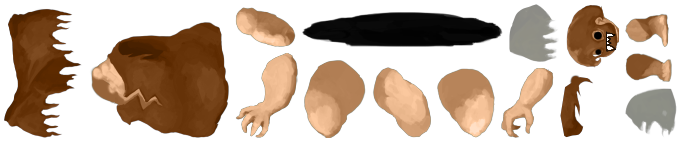
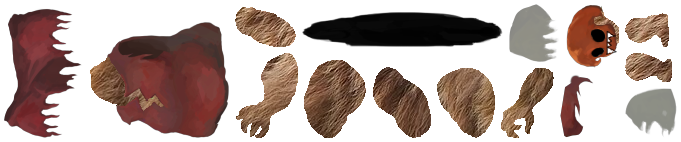
More skins and some skin reworks now that I am slightly more familiar with Photopea

diff --git a/src/main/java/spirepass/screens/SpirepassScreenRenderer.java b/src/main/java/spirepass/screens/SpirepassScreenRenderer.java
@@ -341,6 +341,69 @@ public class SpirepassScreenRenderer {
                 "SNECKO_COLGATE"
         ));
 
+        rewardData.put(24, new SpirepassRewardData(
+                24,
+                "Donut",
+                "If Grand Constructs weren't meant to be eaten, then why do they look so delicious???",
+                SpirepassRewardData.RewardRarity.RARE,
+                SpirepassRewardData.RewardType.CHARACTER_MODEL,
+                SkinManager.ENTITY_DONU,
+                "DONU_DONUT"
+        ));
+
+        rewardData.put(25, new SpirepassRewardData(
+                25,
+                "Chalkboard",
+                "\"Uhh, our chalkboard just sprouted legs and walked away. Class is cancelled!\"",
+                SpirepassRewardData.RewardRarity.UNCOMMON,
+                SpirepassRewardData.RewardType.CHARACTER_MODEL,
+                SkinManager.ENTITY_DECA,
+                "DECA_CHALKBOARD"
+        ));
+
+        rewardData.put(26, new SpirepassRewardData(
+                26,
+                "Purple Guy",
+                "The bandit behind the slaughter",
+                SpirepassRewardData.RewardRarity.UNCOMMON,
+                SpirepassRewardData.RewardType.CHARACTER_MODEL,
+                SkinManager.ENTITY_ROMEO,
+                "ROMEO_PURPLEGUY"
+        ));
+
+        rewardData.put(27, new SpirepassRewardData(
+                27,
+                "Blissful",
+                "Though this cardback represents XP, it does not affect your XP. xP",
+                SpirepassRewardData.RewardRarity.COMMON,
+                SpirepassRewardData.RewardType.CARDBACK,
+                SkinManager.CARDBACK_COLORLESS,
+                "COLORLESS_BLISSFUL",
+                "spirepass/images/rewards/cardbacks/colorless/blissful/BlissSkillLarge.png"
+        ));
+
+        rewardData.put(28, new SpirepassRewardData(
+                28,
+                "Downtrend",
+                "not stonks",
+                SpirepassRewardData.RewardRarity.UNCOMMON,
+                SpirepassRewardData.RewardType.CARDBACK,
+                SkinManager.CARDBACK_CURSE,
+                "CURSE_NOTSTONKS",
+                "spirepass/images/rewards/cardbacks/curse/NotStonksLarge.png"
+        ));
+
+        rewardData.put(29, new SpirepassRewardData(
+                29,
+                "Jimbo Joker",
+                "\"Maybe Go Fish is more our speed...\"",
+                SpirepassRewardData.RewardRarity.UNCOMMON,
+                SpirepassRewardData.RewardType.CARDBACK,
+                SkinManager.CARDBACK_COLORLESS,
+                "COLORLESS_JIMBO",
+                "spirepass/images/rewards/cardbacks/colorless/jimbo/JimboSkillLarge.png"
+        ));
+
         // Default reward for all other levels (badge image)
         Texture badgeTexture = ImageMaster.loadImage("spirepass/images/badge.png");
 
@@ -377,11 +440,14 @@ public class SpirepassScreenRenderer {
         previewAnimations.put(SkinManager.ENTITY_RED_SLAVER, new HashMap<>());
         previewAnimations.put(SkinManager.ENTITY_SENTRY, new HashMap<>());
         previewAnimations.put(SkinManager.ENTITY_GREMLIN_NOB, new HashMap<>());
+        previewAnimations.put(SkinManager.ENTITY_ROMEO, new HashMap<>());
         previewAnimations.put(SkinManager.ENTITY_BEAR, new HashMap<>());
         previewAnimations.put(SkinManager.ENTITY_CENTURION, new HashMap<>());
         previewAnimations.put(SkinManager.ENTITY_SNECKO, new HashMap<>());
         previewAnimations.put(SkinManager.ENTITY_WRITHING_MASS, new HashMap<>());
         previewAnimations.put(SkinManager.ENTITY_GIANT_HEAD, new HashMap<>());
+        previewAnimations.put(SkinManager.ENTITY_DONU, new HashMap<>());
+        previewAnimations.put(SkinManager.ENTITY_DECA, new HashMap<>());
         previewAnimations.put(SkinManager.ENTITY_AWAKENED_ONE, new HashMap<>());
 
         previewSkeletons.put(SkinManager.ENTITY_IRONCLAD, new HashMap<>());
@@ -394,11 +460,14 @@ public class SpirepassScreenRenderer {
         previewSkeletons.put(SkinManager.ENTITY_RED_SLAVER, new HashMap<>());
         previewSkeletons.put(SkinManager.ENTITY_SENTRY, new HashMap<>());
         previewSkeletons.put(SkinManager.ENTITY_GREMLIN_NOB, new HashMap<>());
+        previewSkeletons.put(SkinManager.ENTITY_ROMEO, new HashMap<>());
         previewSkeletons.put(SkinManager.ENTITY_BEAR, new HashMap<>());
         previewSkeletons.put(SkinManager.ENTITY_CENTURION, new HashMap<>());
         previewSkeletons.put(SkinManager.ENTITY_SNECKO, new HashMap<>());
         previewSkeletons.put(SkinManager.ENTITY_WRITHING_MASS, new HashMap<>());
         previewSkeletons.put(SkinManager.ENTITY_GIANT_HEAD, new HashMap<>());
+        previewSkeletons.put(SkinManager.ENTITY_DONU, new HashMap<>());
+        previewSkeletons.put(SkinManager.ENTITY_DECA, new HashMap<>());
         previewSkeletons.put(SkinManager.ENTITY_AWAKENED_ONE, new HashMap<>());
 
         animationInitialized.put(SkinManager.ENTITY_IRONCLAD, new HashMap<>());
@@ -411,11 +480,14 @@ public class SpirepassScreenRenderer {
         animationInitialized.put(SkinManager.ENTITY_RED_SLAVER, new HashMap<>());
         animationInitialized.put(SkinManager.ENTITY_SENTRY, new HashMap<>());
         animationInitialized.put(SkinManager.ENTITY_GREMLIN_NOB, new HashMap<>());
+        animationInitialized.put(SkinManager.ENTITY_ROMEO, new HashMap<>());
         animationInitialized.put(SkinManager.ENTITY_BEAR, new HashMap<>());
         animationInitialized.put(SkinManager.ENTITY_CENTURION, new HashMap<>());
         animationInitialized.put(SkinManager.ENTITY_SNECKO, new HashMap<>());
         animationInitialized.put(SkinManager.ENTITY_WRITHING_MASS, new HashMap<>());
         animationInitialized.put(SkinManager.ENTITY_GIANT_HEAD, new HashMap<>());
+        animationInitialized.put(SkinManager.ENTITY_DONU, new HashMap<>());
+        animationInitialized.put(SkinManager.ENTITY_DECA, new HashMap<>());
         animationInitialized.put(SkinManager.ENTITY_AWAKENED_ONE, new HashMap<>());
     }
 
@@ -447,6 +519,8 @@ public class SpirepassScreenRenderer {
                 basePath = "spirepass/images/skins/sentry/" + variant + "/";
             } else if (entityId.equals(SkinManager.ENTITY_GREMLIN_NOB)) {
                 basePath = "spirepass/images/skins/gremlin_nob/" + variant + "/";
+            } else if (entityId.equals(SkinManager.ENTITY_ROMEO)) {
+                basePath = "spirepass/images/skins/romeo/" + variant + "/";
             } else if (entityId.equals(SkinManager.ENTITY_BEAR)) {
                 basePath = "spirepass/images/skins/bear/" + variant + "/";
             } else if (entityId.equals(SkinManager.ENTITY_CENTURION)) {
@@ -457,6 +531,10 @@ public class SpirepassScreenRenderer {
                 basePath = "spirepass/images/skins/writhing_mass/" + variant + "/";
             } else if (entityId.equals(SkinManager.ENTITY_GIANT_HEAD)) {
                 basePath = "spirepass/images/skins/giant_head/" + variant + "/";
+            } else if (entityId.equals(SkinManager.ENTITY_DONU)) {
+                basePath = "spirepass/images/skins/donu/" + variant + "/";
+            } else if (entityId.equals(SkinManager.ENTITY_DECA)) {
+                basePath = "spirepass/images/skins/deca/" + variant + "/";
             } else if (entityId.equals(SkinManager.ENTITY_AWAKENED_ONE)) {
                 basePath = "spirepass/images/skins/awakened_one/" + variant + "/";
             } else if (entityId.equals(SkinManager.ENTITY_BLUE_SLAVER)) {
@@ -609,10 +687,13 @@ public class SpirepassScreenRenderer {
                 entityId.equals(SkinManager.ENTITY_SENTRY) ||
                 entityId.equals(SkinManager.ENTITY_GREMLIN_NOB) ||
                 entityId.equals(SkinManager.ENTITY_BEAR) ||
+                entityId.equals(SkinManager.ENTITY_ROMEO) ||
                 entityId.equals(SkinManager.ENTITY_CENTURION) ||
                 entityId.equals(SkinManager.ENTITY_SNECKO) ||
                 entityId.equals(SkinManager.ENTITY_GIANT_HEAD) ||
                 entityId.equals(SkinManager.ENTITY_WRITHING_MASS) ||
+                entityId.equals(SkinManager.ENTITY_DONU) ||
+                entityId.equals(SkinManager.ENTITY_DECA) ||
                 entityId.equals(SkinManager.ENTITY_BLUE_SLAVER) ||
                 entityId.equals(SkinManager.ENTITY_RED_SLAVER)) {
             return SpirepassPositionSettings.MONSTER_MODEL_SCALE;
@@ -670,6 +751,12 @@ public class SpirepassScreenRenderer {
             } else {
                 return modelId.toLowerCase();
             }
+        } else if (entityId.equals(SkinManager.ENTITY_ROMEO)) {
+            if (modelId.startsWith("ROMEO_")) {
+                return modelId.substring("ROMEO_".length()).toLowerCase();
+            } else {
+                return modelId.toLowerCase();
+            }
         } else if (entityId.equals(SkinManager.ENTITY_BEAR)) {
             if (modelId.startsWith("BEAR_")) {
                 return modelId.substring("BEAR_".length()).toLowerCase();
@@ -697,6 +784,18 @@ public class SpirepassScreenRenderer {
         } else if (entityId.equals(SkinManager.ENTITY_GIANT_HEAD)) {
             if (modelId.startsWith("GIANT_HEAD_")) {
                 return modelId.substring("GIANT_HEAD_".length()).toLowerCase();
+            } else {
+                return modelId.toLowerCase();
+            }
+        } else if (entityId.equals(SkinManager.ENTITY_DONU)) {
+            if (modelId.startsWith("DONU_")) {
+                return modelId.substring("DONU_".length()).toLowerCase();
+            } else {
+                return modelId.toLowerCase();
+            }
+        } else if (entityId.equals(SkinManager.ENTITY_DECA)) {
+            if (modelId.startsWith("DECA_")) {
+                return modelId.substring("DECA_".length()).toLowerCase();
             } else {
                 return modelId.toLowerCase();
             }

diff --git a/src/main/java/spirepass/patches/EntitySkinPatch.java b/src/main/java/spirepass/patches/EntitySkinPatch.java
@@ -15,10 +15,9 @@ import com.megacrit.cardcrawl.characters.*;
 import com.megacrit.cardcrawl.core.AbstractCreature;
 import com.megacrit.cardcrawl.core.CardCrawlGame;
 import com.megacrit.cardcrawl.core.Settings;
-import com.megacrit.cardcrawl.monsters.beyond.AwakenedOne;
-import com.megacrit.cardcrawl.monsters.beyond.GiantHead;
-import com.megacrit.cardcrawl.monsters.beyond.WrithingMass;
+import com.megacrit.cardcrawl.monsters.beyond.*;
 import com.megacrit.cardcrawl.monsters.city.BanditBear;
+import com.megacrit.cardcrawl.monsters.city.BanditLeader;
 import com.megacrit.cardcrawl.monsters.city.Centurion;
 import com.megacrit.cardcrawl.monsters.city.Snecko;
 import com.megacrit.cardcrawl.monsters.exordium.*;
@@ -86,6 +85,8 @@ public class EntitySkinPatch {
                 entityId = SkinManager.ENTITY_SENTRY;
             } else if (__instance instanceof GremlinNob) {
                 entityId = SkinManager.ENTITY_GREMLIN_NOB;
+            } else if (__instance instanceof BanditLeader) {
+                entityId = SkinManager.ENTITY_ROMEO;
             } else if (__instance instanceof BanditBear) {
                 entityId = SkinManager.ENTITY_BEAR;
             } else if (__instance instanceof Centurion) {
@@ -96,6 +97,10 @@ public class EntitySkinPatch {
                 entityId = SkinManager.ENTITY_WRITHING_MASS;
             } else if (__instance instanceof GiantHead) {
                 entityId = SkinManager.ENTITY_GIANT_HEAD;
+            } else if (__instance instanceof Donu) {
+                entityId = SkinManager.ENTITY_DONU;
+            } else if (__instance instanceof Deca) {
+                entityId = SkinManager.ENTITY_DECA;
             } else if (__instance instanceof AwakenedOne) {
                 entityId = SkinManager.ENTITY_AWAKENED_ONE;
             }
@@ -250,6 +255,13 @@ public class EntitySkinPatch {
                 String variant = skinId.substring("GREMLIN_NOB_".length()).toLowerCase();
                 return "spirepass/images/skins/gremlin_nob/" + variant + "/";
             }
+        } else if (entityId.equals(SkinManager.ENTITY_ROMEO)) {
+            if (skinId.equals("ROMEO")) {
+                return null;
+            } else if (skinId.startsWith("ROMEO_")) {
+                String variant = skinId.substring("ROMEO_".length()).toLowerCase();
+                return "spirepass/images/skins/romeo/" + variant + "/";
+            }
         } else if (entityId.equals(SkinManager.ENTITY_BEAR)) {
             if (skinId.equals("BEAR")) {
                 return null;
@@ -298,6 +310,20 @@ public class EntitySkinPatch {
             } else if (skinId.startsWith("RED_SLAVER_")) {
                 String variant = skinId.substring("RED_SLAVER_".length()).toLowerCase();
                 return "spirepass/images/skins/redSlaver/" + variant + "/";
+            }
+        } else if (entityId.equals(SkinManager.ENTITY_DONU)) {
+            if (skinId.equals("DONU")) {
+                return null;
+            } else if (skinId.startsWith("DONU_")) {
+                String variant = skinId.substring("DONU_".length()).toLowerCase();
+                return "spirepass/images/skins/donu/" + variant + "/";
+            }
+        } else if (entityId.equals(SkinManager.ENTITY_DECA)) {
+            if (skinId.equals("DECA")) {
+                return null;
+            } else if (skinId.startsWith("DECA_")) {
+                String variant = skinId.substring("DECA_".length()).toLowerCase();
+                return "spirepass/images/skins/deca/" + variant + "/";
             }
         } else if (entityId.equals(SkinManager.ENTITY_AWAKENED_ONE)) {
             if (skinId.equals("AWAKENED_ONE")) {

diff --git a/src/main/java/spirepass/spirepassutil/SkinManager.java b/src/main/java/spirepass/spirepassutil/SkinManager.java
@@ -27,11 +27,14 @@ public class SkinManager {
     public static final String ENTITY_RED_SLAVER = "red_slaver";
     public static final String ENTITY_SENTRY = "sentry";
     public static final String ENTITY_GREMLIN_NOB = "gremlin_nob";
+    public static final String ENTITY_ROMEO = "romeo";
     public static final String ENTITY_BEAR = "bear";
     public static final String ENTITY_CENTURION = "centurion";
     public static final String ENTITY_SNECKO = "snecko";
     public static final String ENTITY_WRITHING_MASS = "writhing_mass";
     public static final String ENTITY_GIANT_HEAD = "giant_head";
+    public static final String ENTITY_DONU = "donu";
+    public static final String ENTITY_DECA = "deca";
     public static final String ENTITY_AWAKENED_ONE = "awakened_one";
 
     // Constants for cardback types
@@ -97,11 +100,14 @@ public class SkinManager {
             appliedSkins.put(ENTITY_RED_SLAVER, config.getString(ENTITY_RED_SLAVER));
             appliedSkins.put(ENTITY_SENTRY, config.getString(ENTITY_SENTRY));
             appliedSkins.put(ENTITY_GREMLIN_NOB, config.getString(ENTITY_GREMLIN_NOB));
+            appliedSkins.put(ENTITY_ROMEO, config.getString(ENTITY_ROMEO));
             appliedSkins.put(ENTITY_BEAR, config.getString(ENTITY_BEAR));
             appliedSkins.put(ENTITY_CENTURION, config.getString(ENTITY_CENTURION));
             appliedSkins.put(ENTITY_SNECKO, config.getString(ENTITY_SNECKO));
             appliedSkins.put(ENTITY_WRITHING_MASS, config.getString(ENTITY_WRITHING_MASS));
             appliedSkins.put(ENTITY_GIANT_HEAD, config.getString(ENTITY_GIANT_HEAD));
+            appliedSkins.put(ENTITY_DONU, config.getString(ENTITY_DONU));
+            appliedSkins.put(ENTITY_DECA, config.getString(ENTITY_DECA));
             appliedSkins.put(ENTITY_AWAKENED_ONE, config.getString(ENTITY_AWAKENED_ONE));
 
             // Load cardback preferences
@@ -150,11 +156,14 @@ public class SkinManager {
         defaults.setProperty(ENTITY_RED_SLAVER, "");
         defaults.setProperty(ENTITY_SENTRY, "");
         defaults.setProperty(ENTITY_GREMLIN_NOB, "");
+        defaults.setProperty(ENTITY_ROMEO, "");
         defaults.setProperty(ENTITY_BEAR, "");
         defaults.setProperty(ENTITY_CENTURION, "");
         defaults.setProperty(ENTITY_SNECKO, "");
         defaults.setProperty(ENTITY_WRITHING_MASS, "");
         defaults.setProperty(ENTITY_GIANT_HEAD, "");
+        defaults.setProperty(ENTITY_DONU, "");
+        defaults.setProperty(ENTITY_DECA, "");
         defaults.setProperty(ENTITY_AWAKENED_ONE, "");
 
         // Cardback defaults

diff --git a/src/main/java/spirepass/patches/SingleCardViewCardbackPatch.java b/src/main/java/spirepass/patches/SingleCardViewCardbackPatch.java
@@ -78,10 +78,22 @@ public class SingleCardViewCardbackPatch {
             if (cardbackId.equals("COLORLESS_FAVORITECUSTOMER")) {
[1 lines of base64/hex data omitted]
             }
+
+            if (cardbackId.equals("COLORLESS_BLISSFUL")) {
+                return "spirepass/images/rewards/cardbacks/colorless/blissful/Bliss" + cardType + "Large.png";
+            }
+
+            if (cardbackId.equals("COLORLESS_JIMBO")) {
+                return "spirepass/images/rewards/cardbacks/colorless/jimbo/Jimbo" + cardType + "Large.png";
+            }
             // Add other colorless cardbacks here
         } else if (cardbackType.equals(SkinManager.CARDBACK_CURSE)) {
             if (cardbackId.equals("CURSE_HAROLD")) {
                 return "spirepass/images/rewards/cardbacks/curse/HaroldLarge.png";
+            }
+
+            if (cardbackId.equals("CURSE_NOTSTONKS")) {
+                return "spirepass/images/rewards/cardbacks/curse/NotStonksLarge.png";
             }
             // Add other curse cardbacks here
         }

diff --git a/src/main/java/spirepass/patches/CardbackPatch.java b/src/main/java/spirepass/patches/CardbackPatch.java
@@ -89,10 +89,22 @@ public class CardbackPatch {
             if (cardbackId.equals("COLORLESS_FAVORITECUSTOMER")) {
[1 lines of base64/hex data omitted]
             }
+
+            if (cardbackId.equals("COLORLESS_BLISSFUL")) {
+                return "spirepass/images/rewards/cardbacks/colorless/blissful/Bliss" + cardType + ".png";
+            }
+
+            if (cardbackId.equals("COLORLESS_JIMBO")) {
+                return "spirepass/images/rewards/cardbacks/colorless/jimbo/Jimbo" + cardType + ".png";
+            }
             // Add other colorless cardbacks here
         } else if (cardbackType.equals(SkinManager.CARDBACK_CURSE)) {
             if (cardbackId.equals("CURSE_HAROLD")) {
                 return "spirepass/images/rewards/cardbacks/curse/Harold.png";
+            }
+
+            if (cardbackId.equals("CURSE_NOTSTONKS")) {
+                return "spirepass/images/rewards/cardbacks/curse/NotStonks.png";
             }
             // Add other curse cardbacks here
         }
